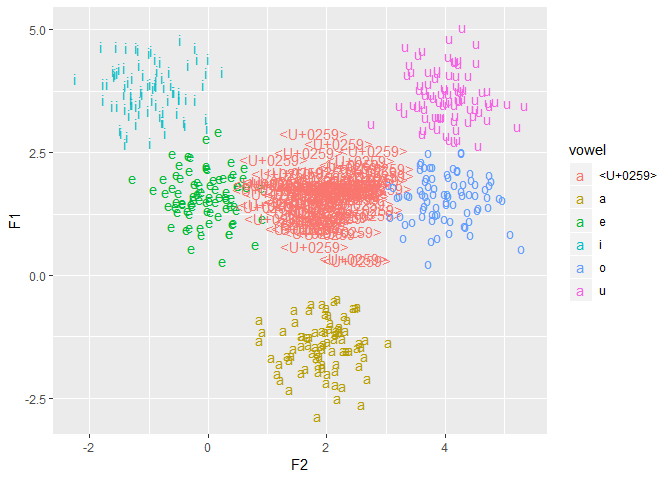
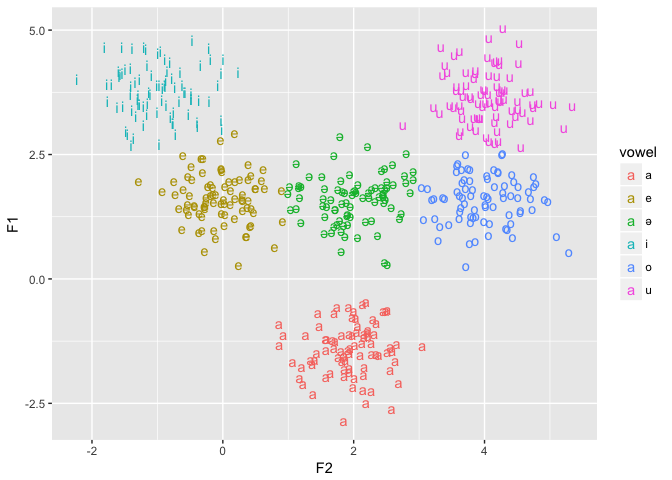
knit on mac to render unicode correctly

diff --git a/vowel_plots_w_ggplot2.md b/vowel_plots_w_ggplot2.md
@@ -60,14 +60,13 @@ column:
 summary(data$vowel)
 ```
 
-    ## <U+0259>        a        e        i        o        u 
-    ##       84       83       82       84       81       86
+    ##  a  e  ə  i  o  u 
+    ## 83 82 84 84 81 86
 
 ## Creating Plots
 
 Assuming we want to plot a F1 \~ F2 vowel space, we first need to tell
-`ggplot2` what data to look
-at
+`ggplot2` what data to look at
 
 ``` r
 ggplot(data=data)
@@ -75,8 +74,7 @@ ggplot(data=data)
 
 ![](vowel_plots_w_ggplot2_files/figure-gfm/unnamed-chunk-6-1.png)<!-- -->
 
-We also need to tell it what variables it should pay attention
-to:
+We also need to tell it what variables it should pay attention to:
 
 ``` r
 ggplot(data=data, aes(x=F2, y=F1, label=vowel))
@@ -282,8 +280,7 @@ ggplot(data=data, aes(x=F2, y=F1,color=vowel)) +
 ![](vowel_plots_w_ggplot2_files/figure-gfm/unnamed-chunk-22-1.png)<!-- -->
 
 To hide a legend that you don’t want, try adding `show.legend=FALSE` to
-the `geom_`
-call.
+the `geom_` call.
 
 ``` r
 ggplot(data=data, aes(x=vowel, y=duration)) + geom_boxplot(aes(color=v_length))
